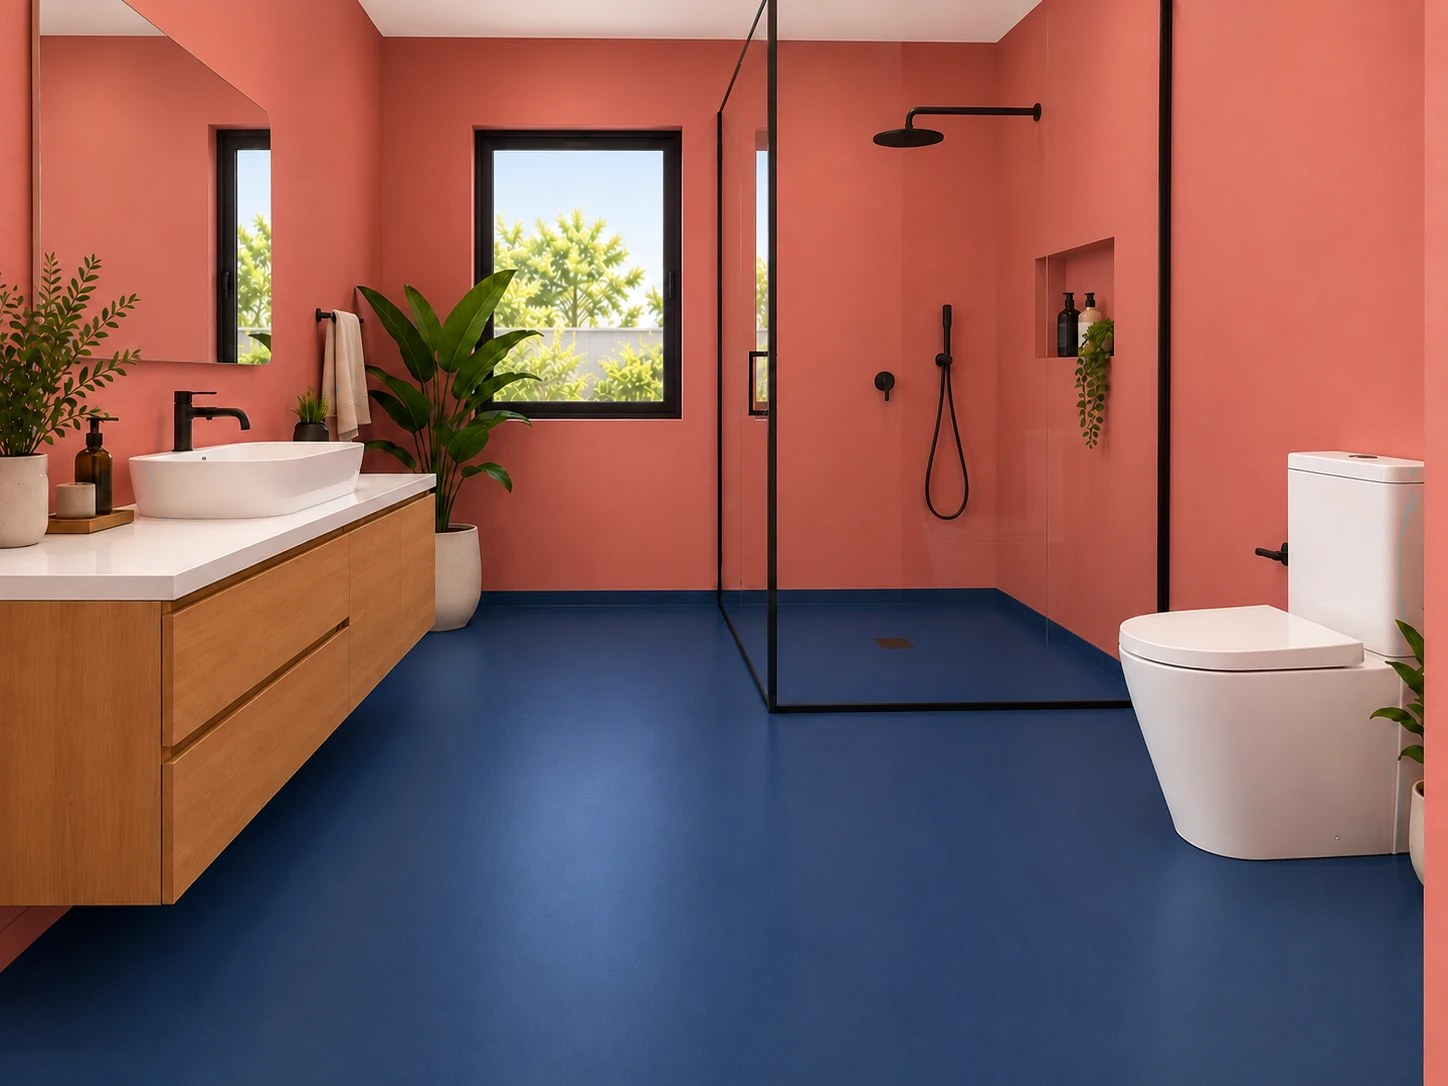
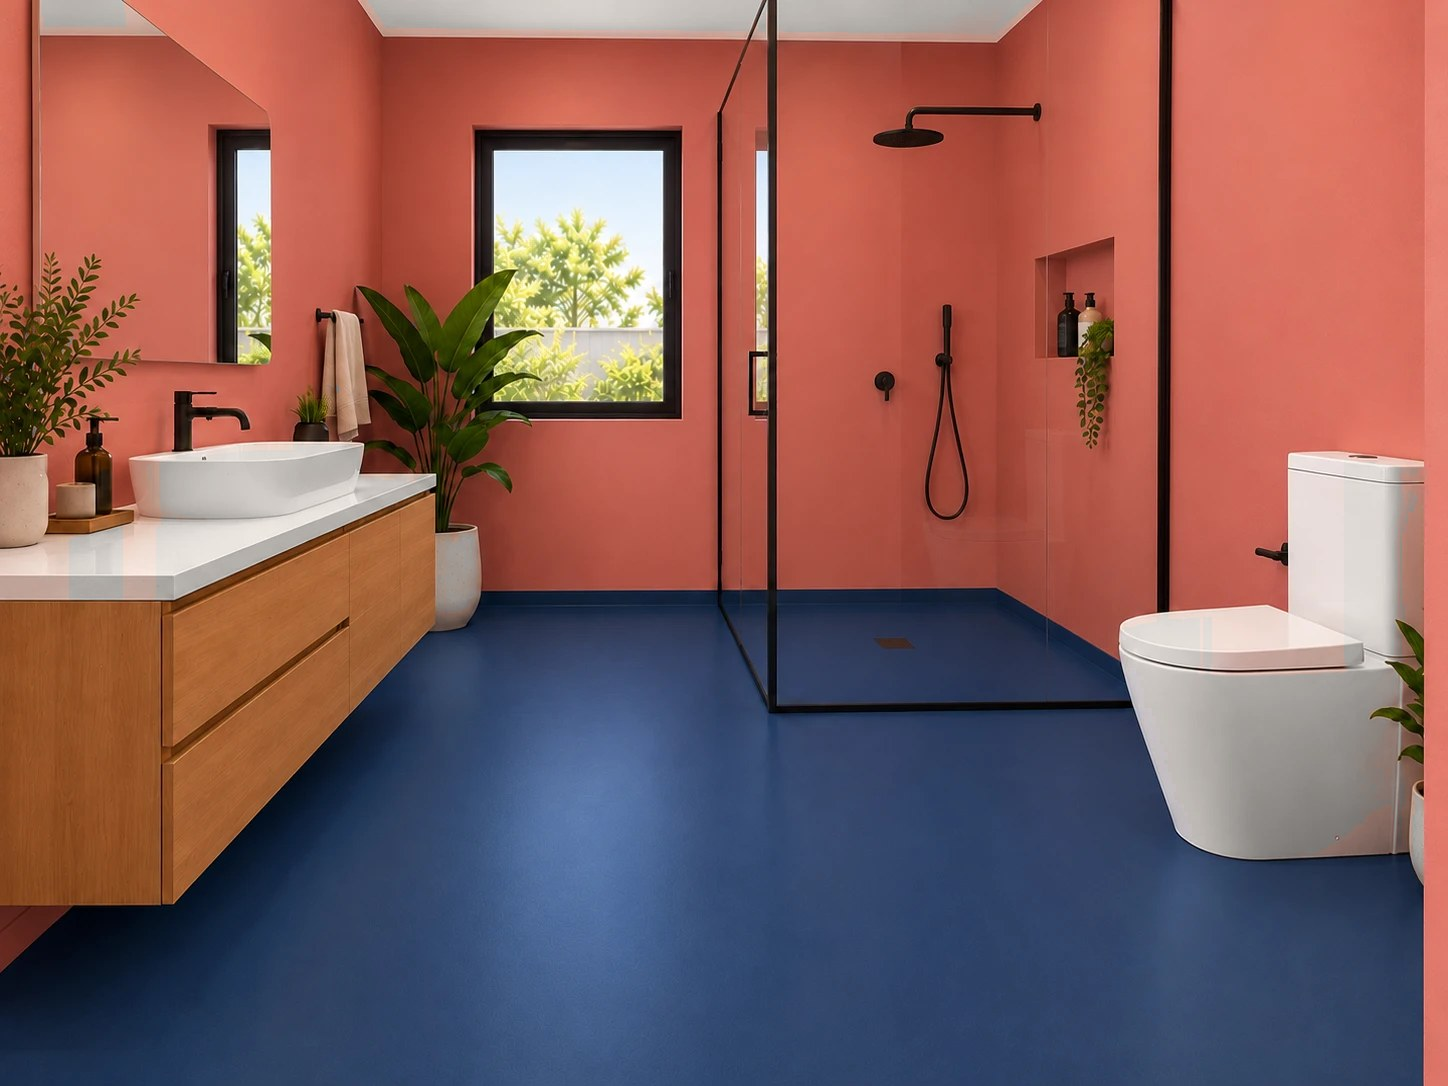
Take the wall's light back off the porcelain
A wall painted strongly enough to trace lights everything near it. In the
ensuite the wall reads saturation 0.65 and the basin 0.17, the vanity top
0.15, the ceiling 0.19, the toilet 0.15. None of that is paint, so the
repaint pass left all of it, and against a white tiled wall every one of
them read pink.

Saturation is what separates it, not hue, and the vanity proves why: its
top sits at 22 degrees and the oak it stands on at 24, so no hue window
can tell those two apart. Their saturations are 0.15 and 0.73. So the rule
is pale and bright. A barely coloured surface catching the light is
porcelain or paintwork wearing the wall's colour; a strongly coloured one
is itself. The same number that lets the basin in at 0.17 keeps the oak out
at 0.73 and the plants out at 0.91.

The hue window is 22 degrees, which is measured rather than chosen: every
surface this is meant to reach lies within 17 degrees of the paint, and the
greenery outside the windows sits at 48.

A hole the wall closes over, a window or a mirror or a niche, is excluded.
What shows there is not a surface the paint has lit, it is whatever is on
the far side, and a garden has pale sunlit leaves in it like anything else.

It runs in the two pink rooms and not in the kitchen, and that is a room's
own answer rather than something measured, because colour cannot settle it.
The kitchen's garden is the same green as its wall, and its window runs
[…]

diff --git a/tools/unpaint.py b/tools/unpaint.py
@@ -1,4 +1,4 @@
-"""Take the paint off everything that is not going to be tiled.
+"""Take the paint, and the light it threw, off everything not being tiled.
 
 The wall colour was only ever a tracing key, the way the blue was on the
 floors. The floor disappears under a tile and so, now, does the wall; but
@@ -30,21 +30,52 @@ W = ("/mnt/c/Users/HCCOMP~1/AppData/Local/Temp/claude/"
      "6b0e1eff-4cf1-4667-ac17-775c86b627df/scratchpad/walls/walls.json")
 APP = "/home/frappe/frappe-bench/apps/aabrick_webstore/aabrick_webstore"
 
-# Must match walltrace.py, room for room and hint for hint.
+# Must match walltrace.py, room for room and hint for hint. The flag says
+# whether to take the wall's light back off the pale things in the room as
+# well as the paint itself, and it is a room's own answer rather than
+# something measured, because colour cannot settle it.
+#
+# In the two pink rooms the paint has plainly stained the porcelain and
+# nothing outside the windows is pink, so the rule has a clear run. The
+# green kitchen is the opposite: the garden through its window is the same
+# green as the wall, and no threshold tells a sunlit palm from a worktop
+# lit green, so the rule would strip the colour out of the garden. It also
+# has nothing to gain, its fixtures being beige and its ceiling white.
 ROOMS = [
-    (19, "ensuite",  10.0),
-    (23, "kitchen",  85.0),
-    (18, "bathroom", 10.0),
+    (19, "ensuite",  10.0, True),
+    (23, "kitchen",  85.0, False),
+    (18, "bathroom", 10.0, True),
 ]
 
-FADE = 0.30        # below this the colour is only bounced light, and stays
+FADE = 0.30        # below this the colour is not the paint itself
 GROW = 2           # pixels the keep-mask is widened by
+
+# What the paint threw over the rest of the room. A wall painted strongly
+# enough to trace lights everything near it: in the ensuite the wall reads
+# saturation 0.65 and the basin 0.17, the vanity top 0.15, the ceiling 0.19.
+# None of that is paint, so the pass above leaves it, and against a white
+# tiled wall every one of them reads pink.
+#
+# Saturation is what separates it, not hue. The vanity top sits at 22
+# degrees and the oak front it stands on at 24, so no hue window can tell
+# those two apart; their saturations are 0.15 and 0.73. So the rule is pale
+# and bright: a surface that is barely coloured and catching the light is
+# porcelain or paintwork wearing the wall's colour, and a surface that is
+# strongly coloured is itself. Plants at 0.91 and oak at 0.73 are excluded
+# by the same number that includes the basin.
+LIT_CAP = 0.35     # more strongly coloured than this and it is its own colour
+LIT_SOFT = 0.26    # ...below this the tint comes out whole, and eases between
+LIT_VAL = 0.55     # bounced light shows on pale bright surfaces, not in shade
+LIT_WIN = 22.0     # degrees; wider than the paint's own, the tint drifts
+#                    more, but measured: every surface this is meant to
+#                    reach lies within 17 degrees of the paint, and the
+#                    greenery outside the windows sits at 48
 # the warm off-white the rooms were asked for, as a tint
 TINT = (1.000, 0.976, 0.953)
 
 walls = json.load(io.open(W, encoding="utf-8"))
 
-for n, slug, hint in ROOMS:
+for n, slug, hint, lit in ROOMS:
     im = Image.open("%s/%d.webp" % (SRC, n)).convert("RGB")
     w, h = im.size
     px = im.load()
@@ -58,6 +89,7 @@ for n, slug, hint in ROOMS:
     d = walls[slug]
     step = d["step"]
     keep = bytearray(w * h)          # 1 where a tile will go anyway
+    seen = bytearray(w * h)          # 1 where you are seeing past the wall
     for col in d["cols"]:
         x0 = col[0]
         for i in range(1, len(col), 2):
@@ -65,6 +97,21 @@ for n, slug, hint in ROOMS:
                 row = y * w
                 for x in range(x0, min(x0 + step, w)):
                     keep[row + x] = 1
+        # A gap with wall above it and wall below it is a hole in the wall:
+        # a window, a mirror, a niche. What shows there is not a surface the
+        # paint has lit, it is whatever is on the far side, and a garden has
+        # pale sunlit leaves in it like anything else. Colour will not
+        # settle that, so the geometry does.
+        #
+        # This only covers a hole the wall closes over, which is every
+        # window in the two rooms the rule runs in. A window that runs down
+        # to a worktop has no wall beneath it and is not caught; the kitchen
+        # has one, which is part of why the rule is off there.
+        for i in range(2, len(col) - 2, 2):
+            for y in range(col[i] + 1, min(col[i + 1], h)):
+                row = y * w
+                for x in range(x0, min(x0 + step, w)):
+                    seen[row + x] = 1
 
     # the walls were sampled with a slight blur, so the mask stops a pixel
     # or two short of the true edge; grow it so a repaint cannot eat into
@@ -97,19 +144,29 @@ for n, slug, hint in ROOMS:
                 continue
             r, g, b = px[x, y]
             hh, ss, vv = keycolour.hsv(r, g, b)
-            if ss < FADE or ss > ceiling or vv < 0.10:
+            if vv < 0.10:
                 continue
-            if keycolour.apart(hh, ref) >= win:
+            off = keycolour.apart(hh, ref)
+
+            # the paint itself, wherever the mask did not reach it. A ramp
+            # rather than a cut, so there is no seam where a ceiling meets a
+            # wall and the ramp runs out.
+            k = 0.0
+            if off < win and FADE <= ss <= ceiling:
+                k = (ss - FADE) / (full - FADE) if full > FADE else 1.0
+                if k > 1.0:
+                    k = 1.0
+
+            # and the light it threw on everything pale near it
+            if (lit and not seen[row + x] and off < LIT_WIN
+                    and ss < LIT_CAP and vv > LIT_VAL):
+                glow = (1.0 if ss <= LIT_SOFT
+                        else (LIT_CAP - ss) / (LIT_CAP - LIT_SOFT))
+                if glow > k:
+                    k = glow
+
+            if k <= 0.0:
                 continue
-            # A ceiling is paler than the wall below it but the same colour,
-            # so a single cut either leaves it or starts taking the warm
-            # light off the porcelain. It is a ramp instead: full strength
-            # at wall paint, nothing at all by the time the colour is only
-            # the light bouncing around the room, and no seam where a
-            # ceiling meets a wall.
-            k = (ss - FADE) / (full - FADE) if full > FADE else 1.0
-            if k > 1.0:
-                k = 1.0
             L = 0.299 * r + 0.587 * g + 0.114 * b
             px[x, y] = (
                 min(255, int(r + (L * TINT[0] - r) * k)),

diff --git a/aabrick_webstore/hooks.py b/aabrick_webstore/hooks.py
@@ -268,7 +268,7 @@ override_doctype_class = {
 	"Item Group": "aabrick_webstore.overrides.item_group.AABrickItemGroup",
 }
 
-ASSET_VERSION = "162"
+ASSET_VERSION = "163"
 web_include_js = [
 	"/assets/aabrick_webstore/js/webstore.js?v=" + ASSET_VERSION,
 	"/assets/aabrick_webstore/js/nav.js?v=" + ASSET_VERSION,
